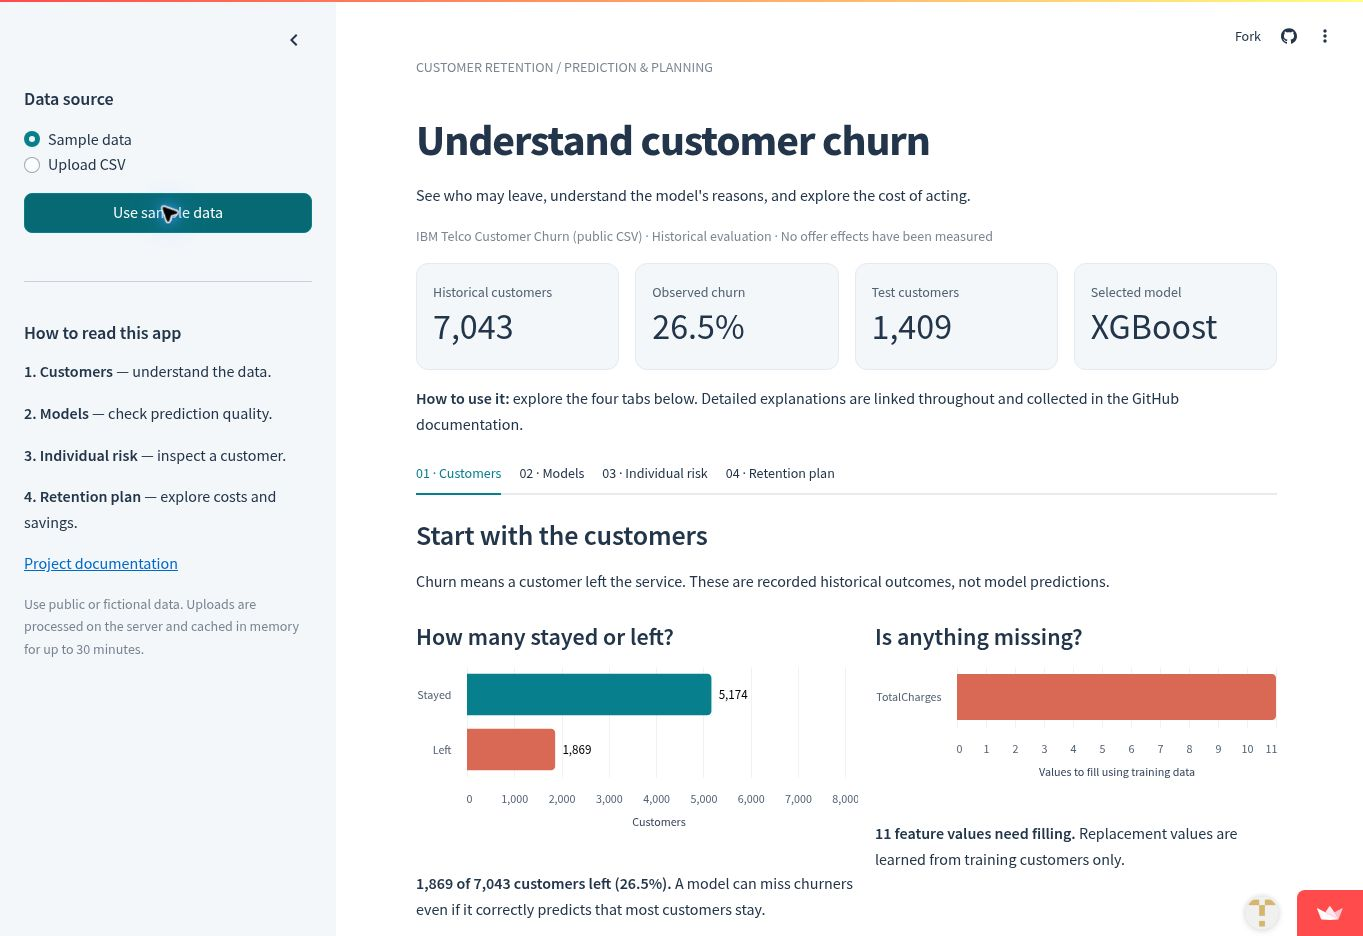
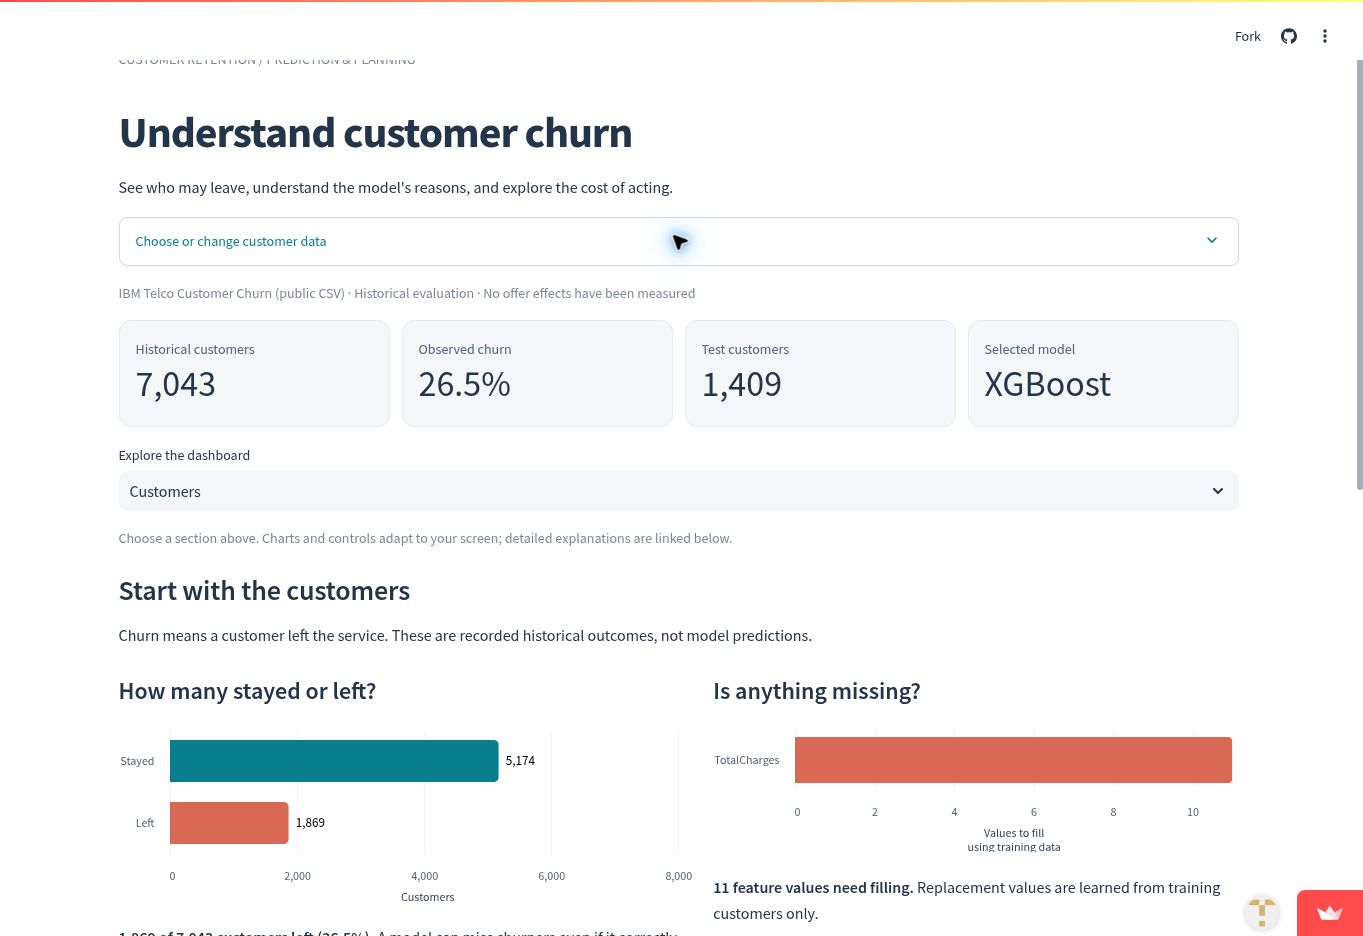
Refresh dashboard preview for responsive navigation

diff --git a/README.md b/README.md
@@ -10,10 +10,6 @@ The app compares logistic regression with XGBoost, explains individual predictio
 
 ![Customer overview](docs/images/overview.jpg)
 
-![Model evaluation](docs/images/models.jpg)
-
-![Retention scenario](docs/images/campaign.jpg)
-
 ## Project contribution
 
 A risk score is only part of a retention decision. Someone using the app also needs to understand the prediction and weigh the cost of acting on it.
